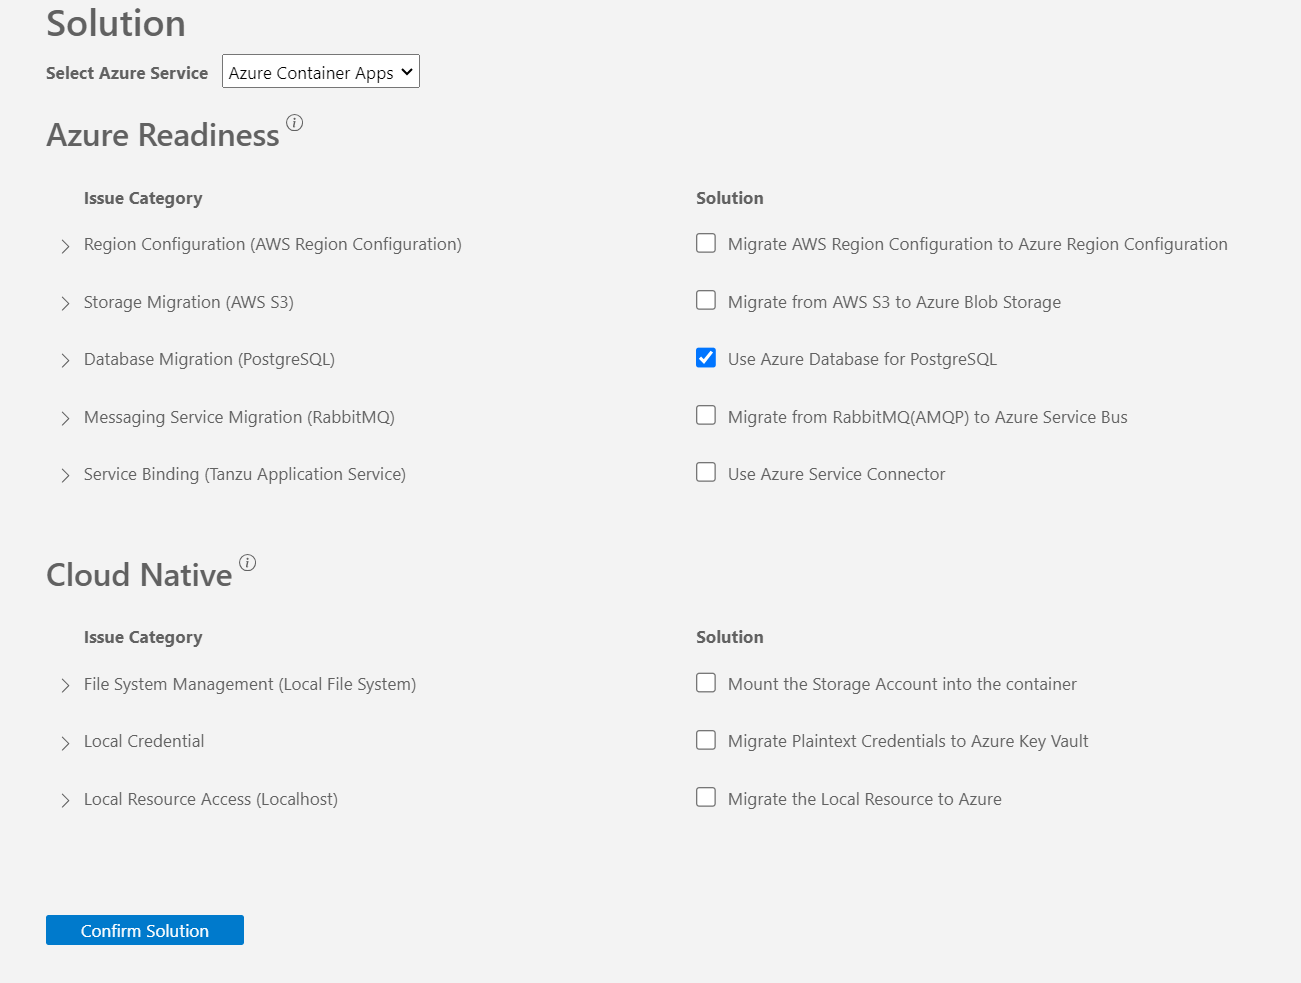
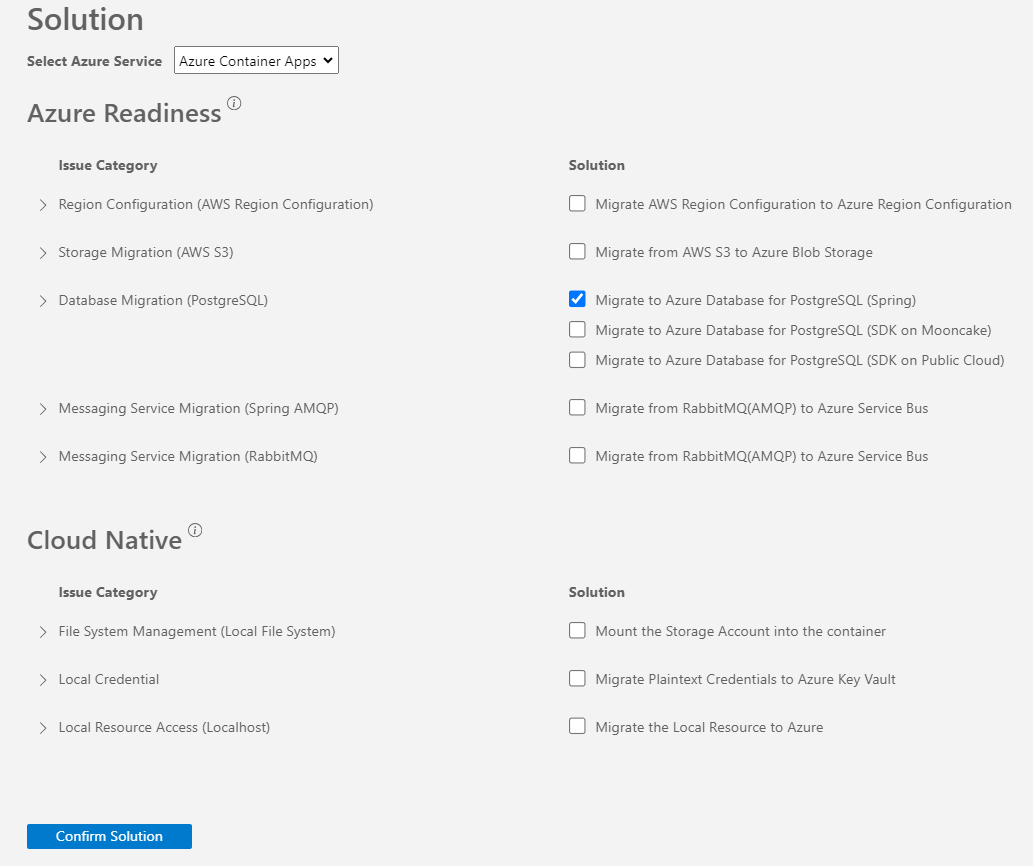
update solution name and screenshot (#13)

diff --git a/asset-manager/WORKSHOP.md b/asset-manager/WORKSHOP.md
@@ -19,7 +19,7 @@ To successfully complete this workshop, you need the following:
 - [Maven 3.9.9](https://maven.apache.org/install.html): Required for the assessment and code remediation feature.
 - [Azure subscription](https://azure.microsoft.com/free/): Required to deploy the migrated application to Azure.
 - [Azure CLI](https://docs.microsoft.com/cli/azure/install-azure-cli): Required if you deploy the migrated application to Azure locally. The latest version is recommended.
-- Fork the [GitHub repository](https://github.com/Azure-Samples/java-migration-copilot-samples) that contains the sample Java application. Clone it to your local machine. Open the `asset-manager` folder in VSCode and checkout the `workshop` branch.
+- Fork the [GitHub repository](https://github.com/Azure-Samples/java-migration-copilot-samples) that contains the sample Java application. Please ensure to **uncheck** the default selection "Copy the `main` branch only". Clone it to your local machine. Open the `asset-manager` folder in VSCode and checkout the `workshop` branch.
 
 ## Install GitHub Copilot App Modernization for Java (Preview)
 
@@ -52,7 +52,7 @@ The first step is to assess the sample Java application `asset-manager`. The ass
 1. After each step, please manually input "continue" to confirm and proceed.
 1. Wait for the assessment to be completed and the report to be generated.
 1. Review the **Summary** report. Select **Propose Solution** to view the proposed solutions for the issues identified in the summary report.
-1. For this workshop, deselect all solutions and select **Use Azure Database for PostgreSQL** in the Solution report, then select **Confirm Solution**.
+1. For this workshop, deselect all solutions and select **Migrate to Azure Database for PostgreSQL (SDK on Public Cloud)** in the Solution report, then select **Confirm Solution**.
 ![Confirm Solution](doc-media/confirm-postgresql-solution.png)
 1. In the Migrate report, click **Migrate**.
 
@@ -92,7 +92,7 @@ The following steps demonstrate how to generate custom formulas based on those e
 
 ## Deploy to Azure
 
-At this point, you have successfully migrated the sample Java application `asset-manager` to use Azure Database for PostgreSQL, Azure Blob Storage, and Azure Service Bus. Now, you can deploy the migrated application to Azure using the Azure CLI after you identify a working location for your Azure resources.
+At this point, you have successfully migrated the sample Java application `asset-manager` to Migrate to Azure Database for PostgreSQL (SDK on Public Cloud), Azure Blob Storage, and Azure Service Bus. Now, you can deploy the migrated application to Azure using the Azure CLI after you identify a working location for your Azure resources.
 
 For example, an Azure Database for PostgreSQL Flexible Server requires a location that supports the service. Follow the instructions below to find a suitable location.
 
